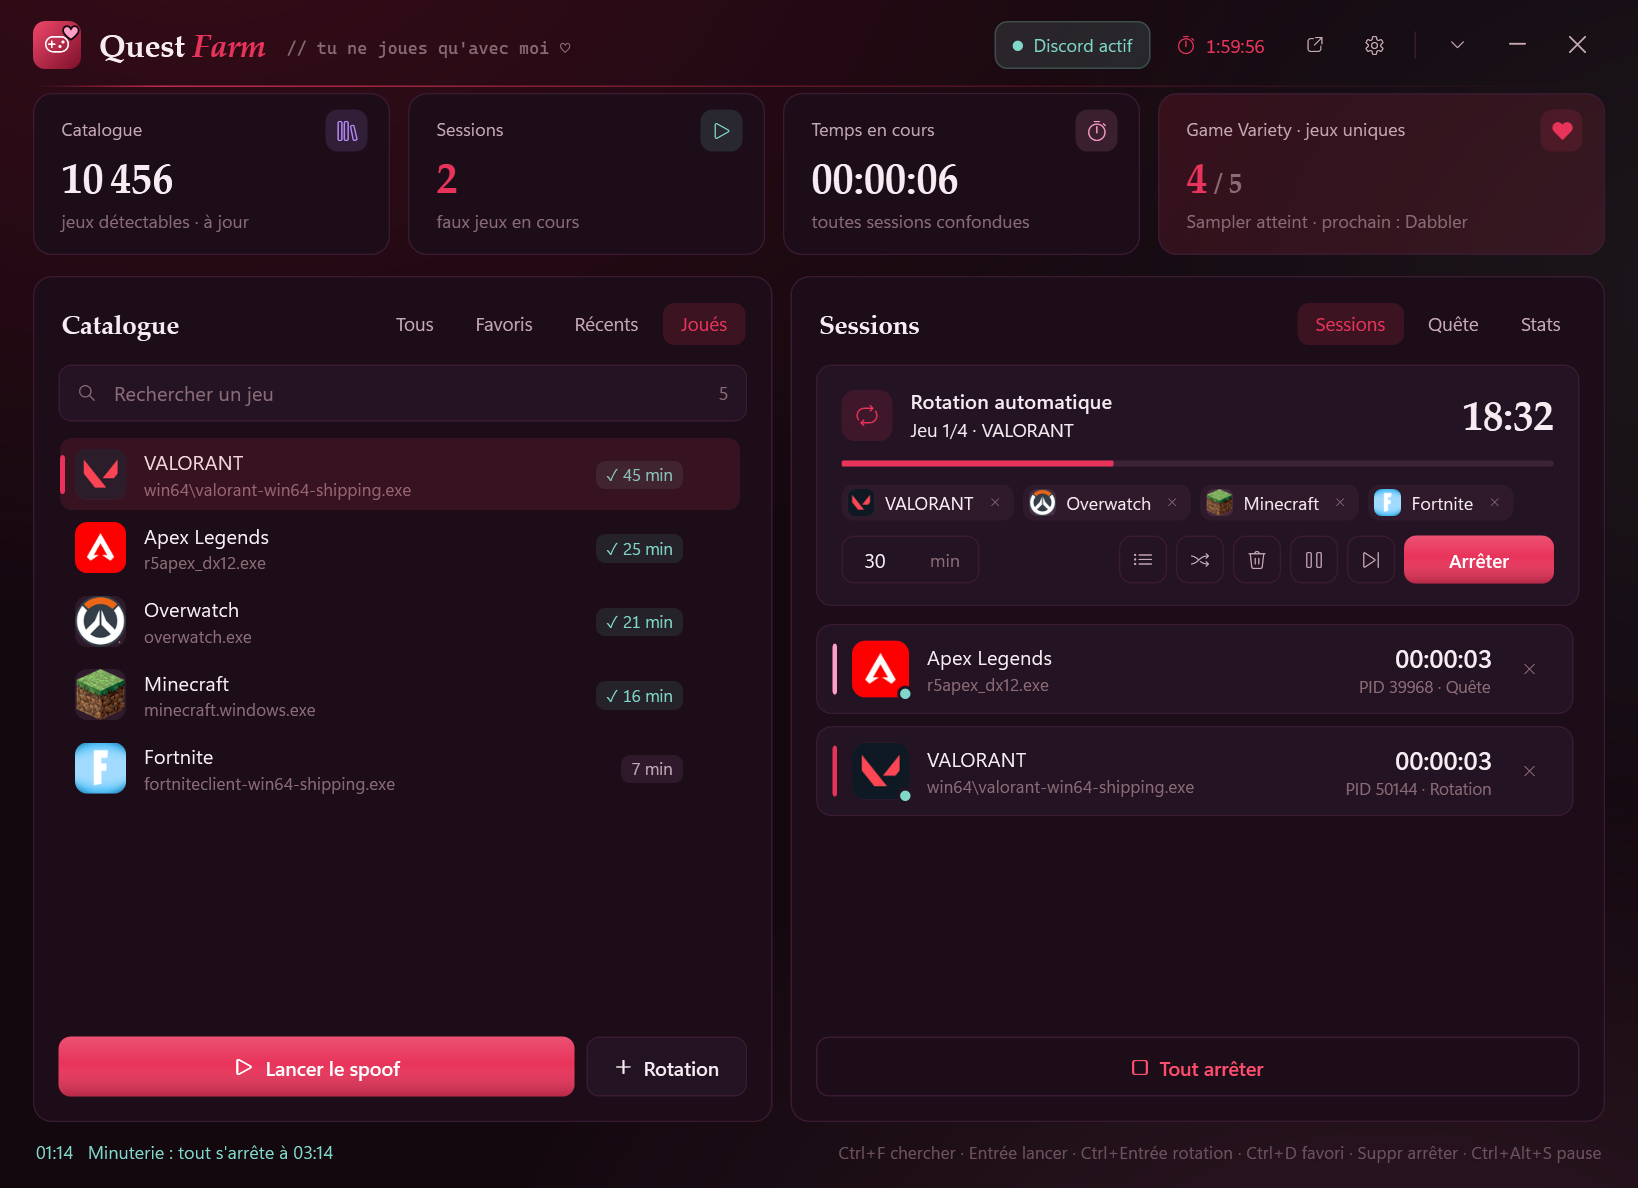
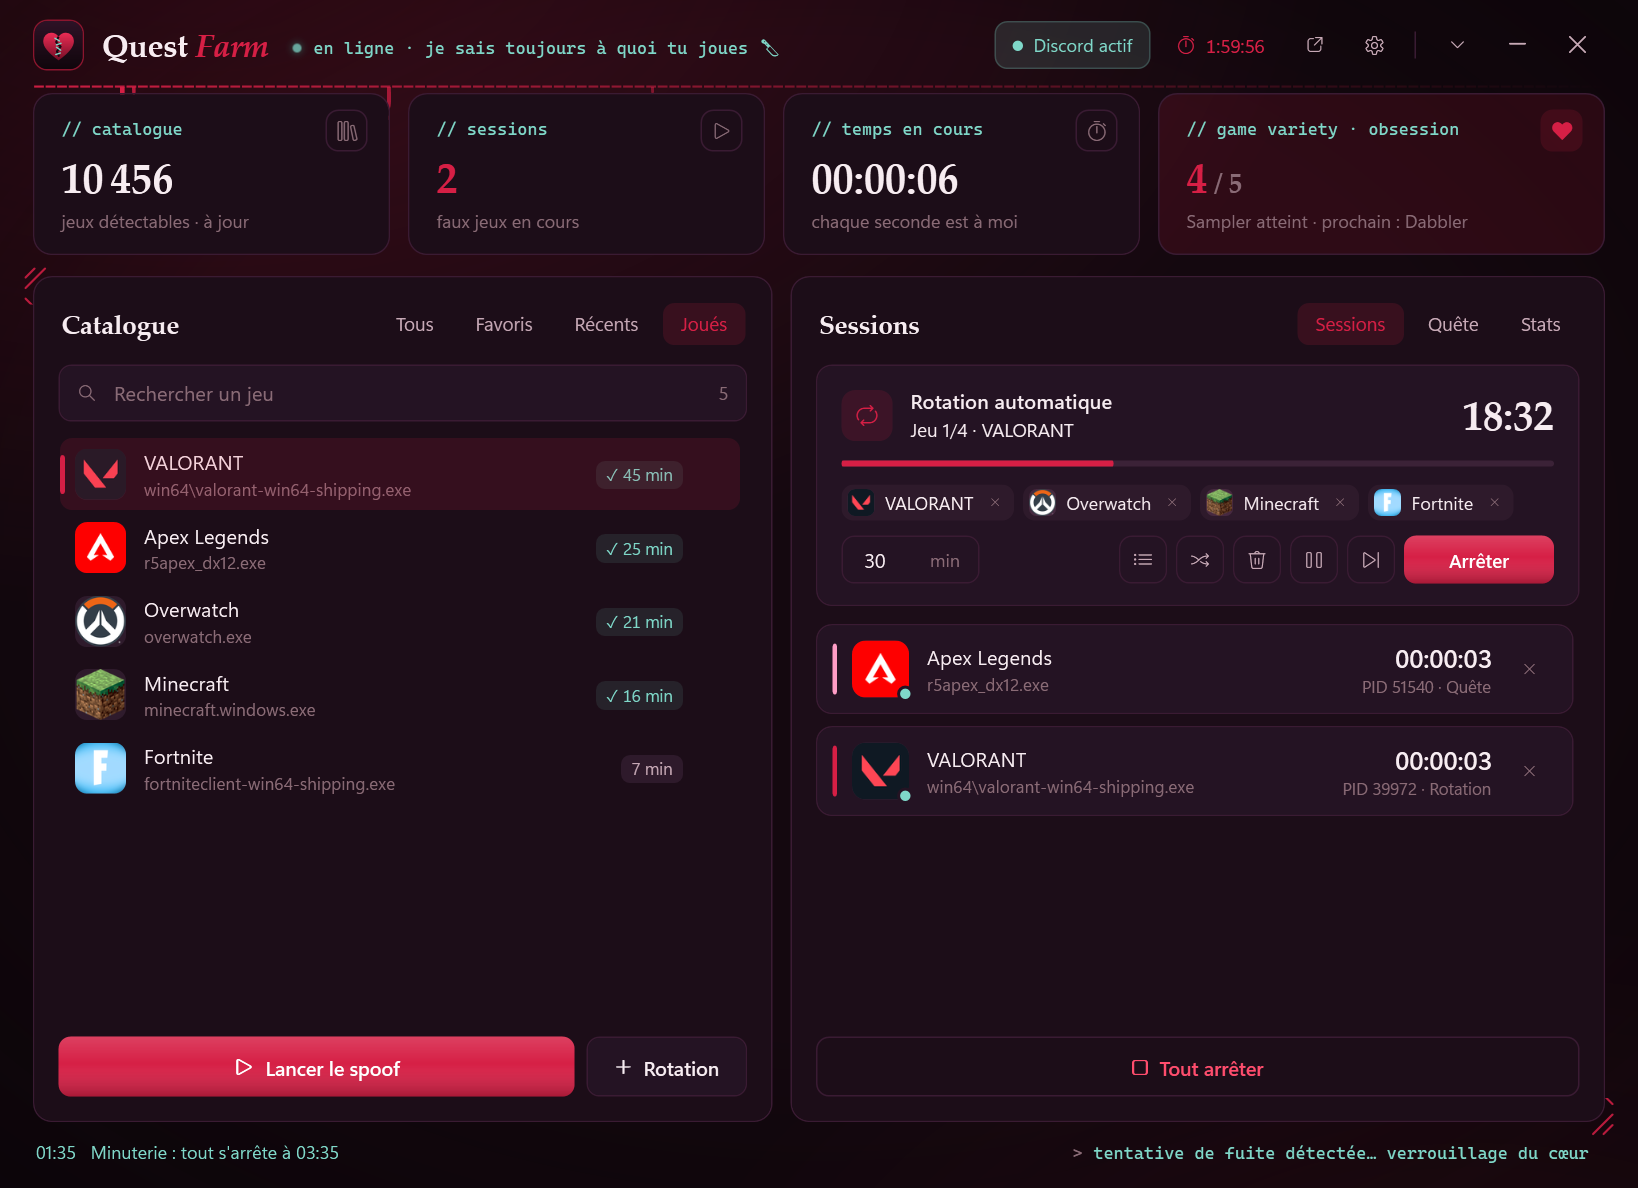
README : nouvelles captures du thème yandere

diff --git a/README.fr.md b/README.fr.md
@@ -6,7 +6,7 @@
 
 <p align="center">
   Simulateur de présence Discord pour Windows<br>
-  <sub><code>// tu ne joues qu'avec moi ♡</code></sub><br>
+  <sub><code>en ligne · je sais toujours à quoi tu joues 🔪</code></sub><br>
   <a href="README.md">English</a> · <b>Français</b>
 </p>
 
@@ -37,7 +37,7 @@ Discord croit alors que tu joues : pratique pour les quêtes « joue à X pendan
 | 🪟 **Faux jeux** | Petite carte avec l'icône du jeu et un chrono ; couleur, taille et coin de l'écran réglables |
 | ⚡ **Réglages en direct** | Langue, couleurs et apparence des faux jeux s'appliquent tout de suite, même aux faux jeux déjà ouverts |
 | 📱 **Appli téléphone** | Pilote l'outil PC depuis ton téléphone sur le même Wi-Fi : sessions, rotation, recherche de jeux, quêtes, minuterie, stats |
-| 🩸 **Thème yandere** | Aubergine profond, rouge sang et sakura, titres en serif ; 6 couleurs d'accent (sang, sakura, cerise, lilas, menthe, or rose) appliquées partout, téléphone et faux jeux compris |
+| 🩸 **Thème yandere** | Fond aubergine, rouge sang, coutures en pointillés et cœur recousu qui bat, faux terminal qui « surveille » en bas de l'écran ; 6 couleurs d'accent (sang, sakura, cerise, lilas, menthe, or rose) appliquées partout, téléphone et faux jeux compris |
 | 🧩 **Confort** | Mini-widget toujours visible, zone de notification, lancement avec Windows (option), raccourci bureau, diagnostic, français / anglais |
 | 🪶 **Léger** | ~2 à 6 % d'un cœur et 60 à 130 Mo ; les faux jeux s'arrêtent avec l'outil, même en cas de plantage |
 

diff --git a/README.md b/README.md
@@ -6,7 +6,7 @@
 
 <p align="center">
   Discord presence simulator for Windows<br>
-  <sub><code>// you only play with me ♡</code></sub><br>
+  <sub><code>online · I always know what you're playing 🔪</code></sub><br>
   <b>English</b> · <a href="README.fr.md">Français</a>
 </p>
 
@@ -37,7 +37,7 @@ Discord then thinks you are playing: handy for "play X for N minutes" quests.
 | 🪟 **Fake games** | Small card with the game icon and a timer; color, size and screen corner are configurable |
 | ⚡ **Live settings** | Language, colors and fake game appearance apply instantly, even to fake games already running |
 | 📱 **Phone app** | Control the PC app from your phone on the same Wi-Fi: sessions, rotation, game search, quests, timer, stats |
-| 🩸 **Yandere theme** | Deep aubergine, blood red and sakura, serif titles; 6 accent colors (blood, sakura, cherry, lilac, mint, rose gold) applied everywhere, phone and fake games included |
+| 🩸 **Yandere theme** | Aubergine background, blood red, dashed stitches and a beating stitched heart, a fake terminal that keeps 'watching' at the bottom; 6 accent colors (blood, sakura, cherry, lilac, mint, rose gold) applied everywhere, phone and fake games included |
 | 🧩 **Comfort** | Always-on-top mini widget, notification area, launch with Windows (optional), desktop shortcut, diagnostics, English / French |
 | 🪶 **Lightweight** | ~2–6% of one core and 60–130 MB; fake games stop with the app, even if it crashes |
 
